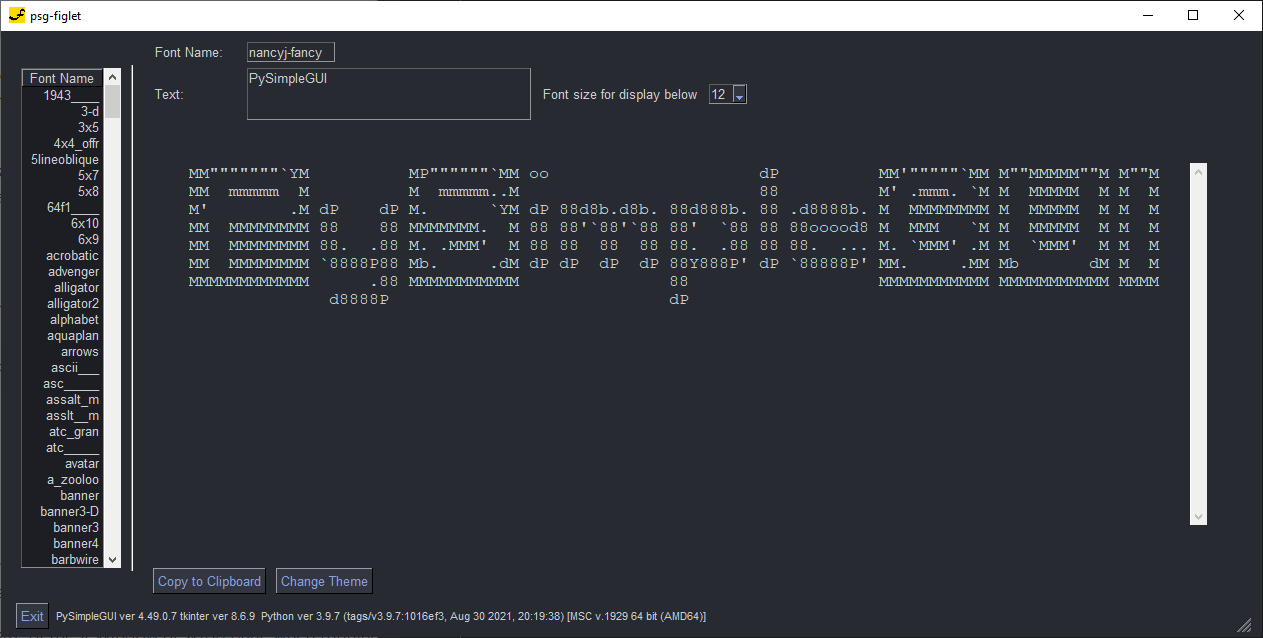
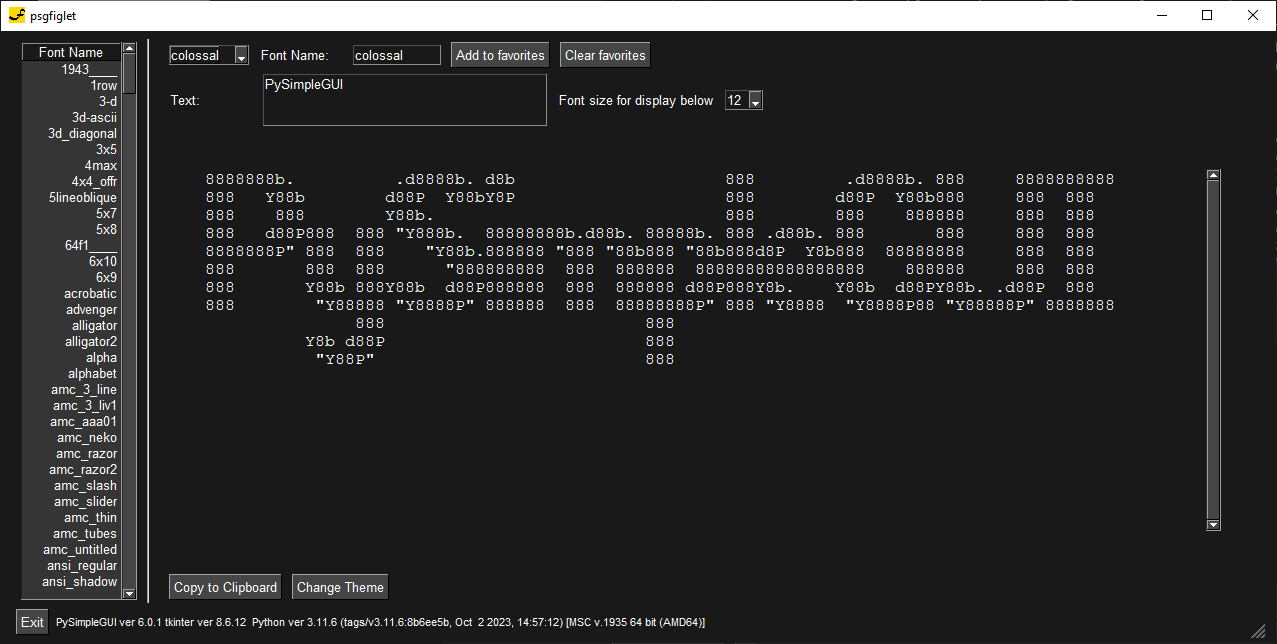
New screenshots.   Made Font list expand/contract with window. Sort favorites.

diff --git a/psgfiglet/psgfiglet.py b/psgfiglet/psgfiglet.py
@@ -9,7 +9,7 @@ import sys
 import os
 import pyfiglet
 
-version = '6.0'
+version = '6.0.1'
 __version__ = version.split()[0]
 
 """
@@ -18,7 +18,7 @@ Changelog since last major release
 5.0.0   13-Feb-2024     Initial release with PSG 5     
 6.0     9-Apr-2026      Moved to LGPL3 license    
                         Added "favorites" feature
-
+6.0.1   10-Apr-2026     Made Font list expand/contract with window. Sort favorites.
 """
 
 
@@ -128,19 +128,19 @@ def make_window():
     sg.theme_background_color(sg.theme_input_background_color())
     sg.theme_text_element_background_color(sg.theme_input_background_color())
     column_left = [[sg.Table(headings=['Font Name'], values=fonts, key='-FONT-LIST-',
-                             col_widths=[40], num_rows=30, enable_events=True), sg.VerticalSeparator(pad=((5, 5), 0))]]
+                             col_widths=[40], num_rows=30, enable_events=True, expand_y=True), sg.VerticalSeparator(pad=((5, 5), 0))]]
     try:
         mline_input = sg.Multiline('PySimpleGUI', size=(40, 3), key='-TEXT-TO-SHOW-', no_scrollbar=True, enable_events=True, focus=True)
     except Exception as e:
         mline_input = sg.Multiline('PySimpleGUI', size=(40, 3), key='-TEXT-TO-SHOW-', enable_events=True, focus=True)
 
-    column_right = [[sg.Combo(favorite_fonts, default_value=favorite_fonts[0], readonly=True, enable_events=True, k='-FAVORITES-', size=(max([len(f) for f in favorite_fonts]), len(favorite_fonts))), sg.Text("Font Name:", size=(10, 1)), sg.Input(selected_font, size=(12, 1), key='-FONT-NAME-'), sg.B('Add to favorites', k='-ADD TO FAVORITES-'), sg.B('Clear favorites', k='-CLEAR FAVORITES-')],
+    column_right = [[sg.Combo(favorite_fonts, default_value=favorite_fonts[0], readonly=True, enable_events=True, k='-FAVORITES-', size=(max([len(f) for f in favorite_fonts]),30)), sg.Text("Font Name:", size=(10, 1)), sg.Input(selected_font, size=(12, 1), key='-FONT-NAME-'), sg.B('Add to favorites', k='-ADD TO FAVORITES-'), sg.B('Clear favorites', k='-CLEAR FAVORITES-')],
                     [sg.Text("Text:", size=(10, 1)), mline_input, sg.T('Font size for display below'),
                      sg.Combo(list(range(4, 20)), 12, enable_events=True, k='-FONT-SIZE-')],
                     [sg.Multiline(size=(LINE_LENGTH, 20), key='-OUTPUT-', border_width=0, font=MULTILINE_FONT, expand_x=True, expand_y=True, pad=(40, 40), )],
                     [sg.B('Copy to Clipboard'), sg.B('Change Theme')], ]
 
-    layout = [[sg.Column(column_left, expand_y=False, expand_x=False), sg.Column(column_right, expand_x=False, expand_y=False, k='-COL R-')],
+    layout = [[sg.Column(column_left, expand_y=True, expand_x=False), sg.Column(column_right, expand_x=False, expand_y=False, k='-COL R-')],
               [sg.Button('Exit', right_click_menu=sg.MENU_RIGHT_CLICK_DISABLED),
                sg.T('PySimpleGUI ver ' + sg.version.split(' ')[0] + ' tkinter ver ' + sg.tclversion_detailed + '  Python ver ' + sys.version, font='Default 8',
                     pad=(0, 0))], ]
@@ -177,6 +177,7 @@ def main():
     MULTILINE_FONT = ('Courier', 12)
     fonts = pyfiglet.FigletFont.getFonts()
     favorite_fonts = sg.user_settings_get_entry('-favorites-', [' '])
+    favorite_fonts.sort()
 
     while True:  # Event Loop
         event, values = window.read()
@@ -217,6 +218,7 @@ def main():
         elif event == '-ADD TO FAVORITES-':
             favorite_fonts.append(values['-FONT-NAME-'])
             favorite_fonts = list(set(favorite_fonts))  # remove dupes
+            favorite_fonts.sort()
             sg.user_settings_set_entry('-favorites-', favorite_fonts)
             window['-FAVORITES-'].update(value=values['-FONT-NAME-'], values=favorite_fonts)
         elif event == '-CLEAR FAVORITES-':
